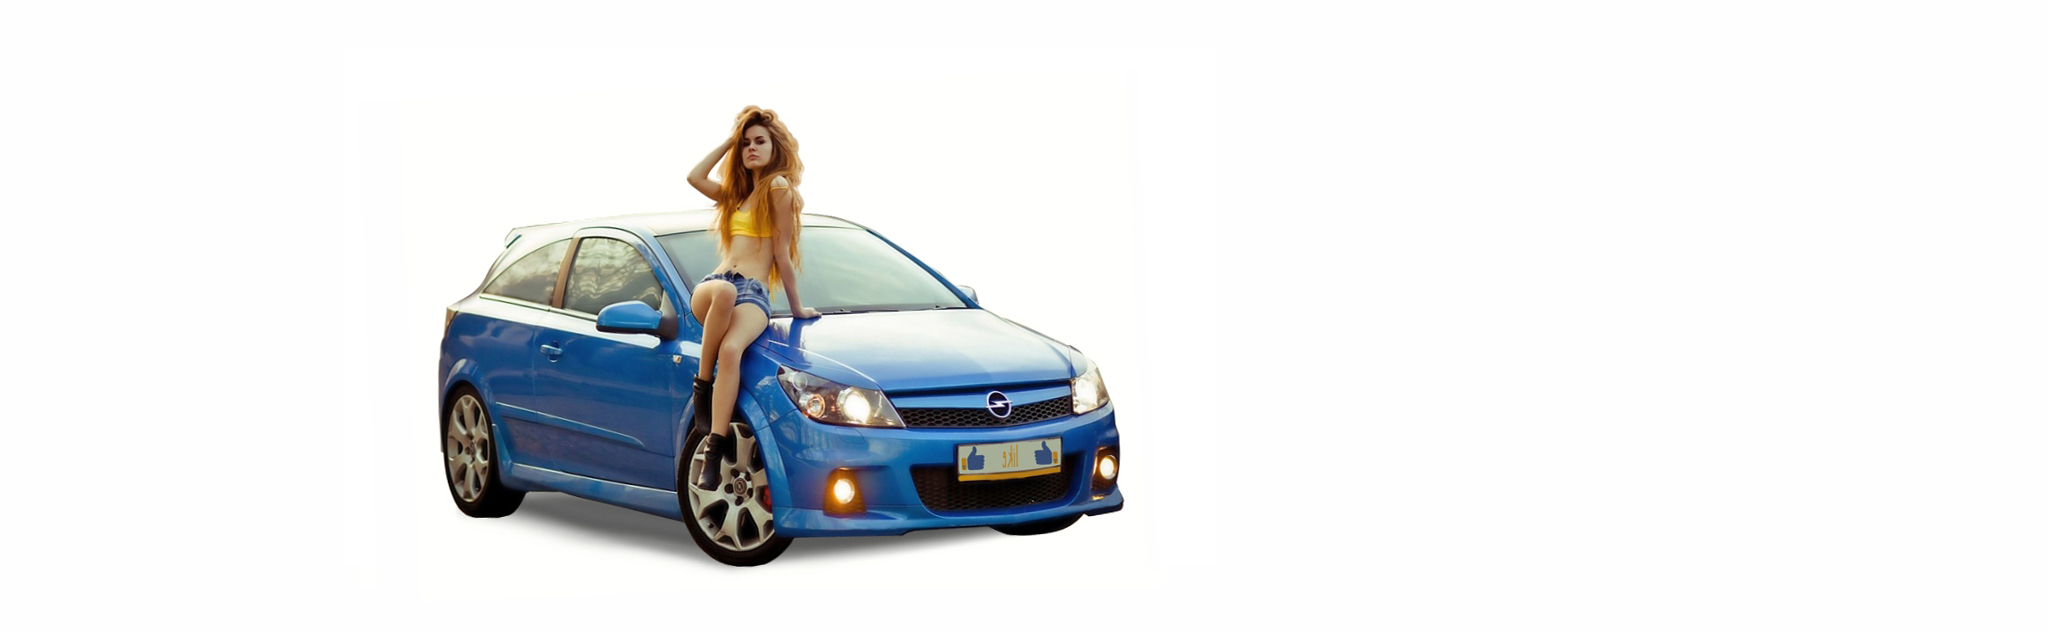
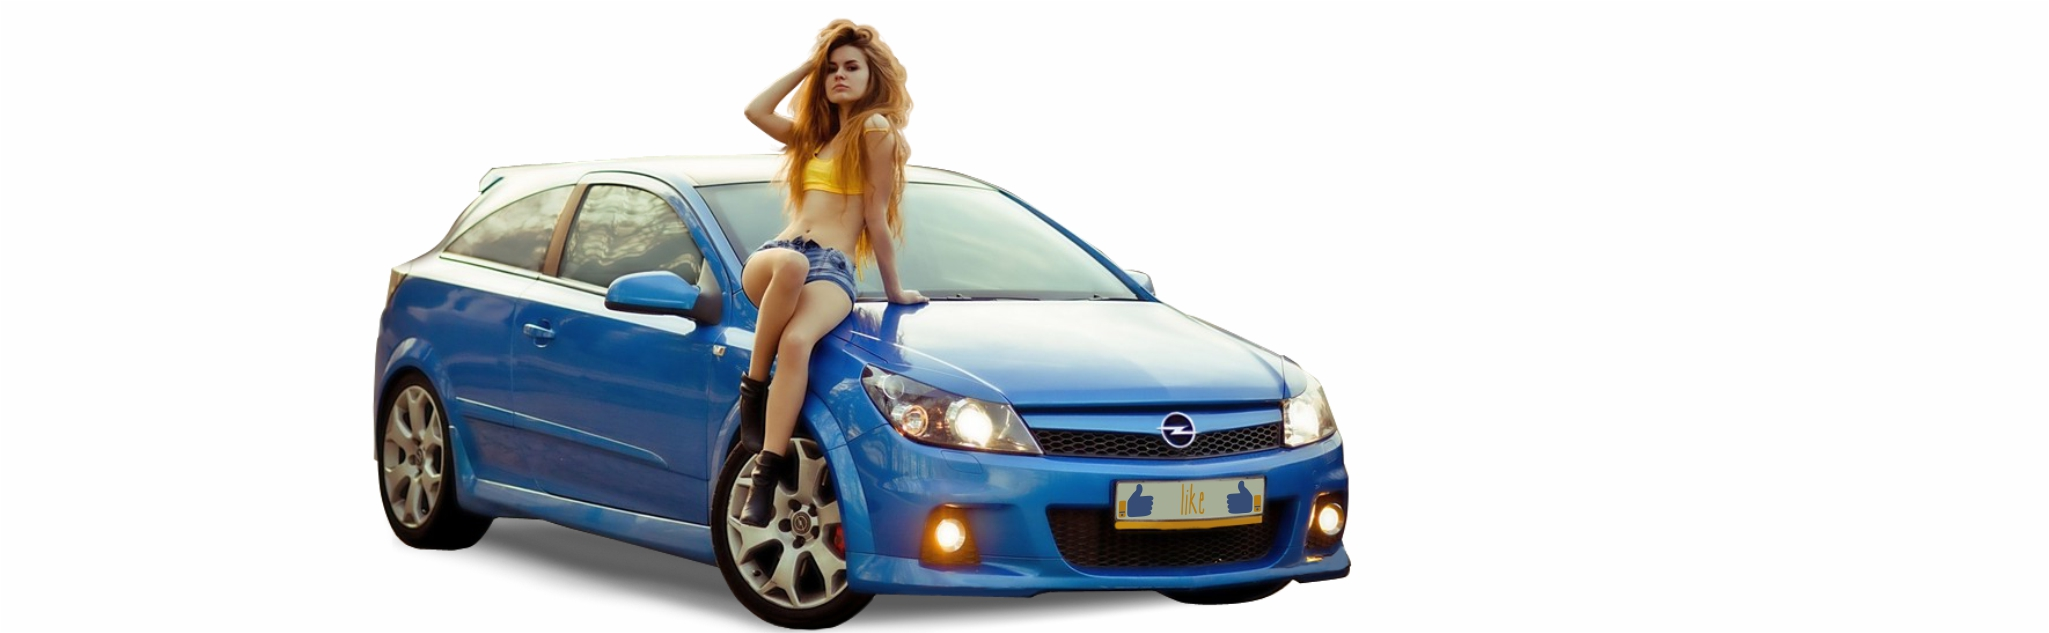
2509171355

Changed region(s): [[0.1562, 0.03, 0.6559, 1.0]]

diff --git a/index.html b/index.html
@@ -240,8 +240,8 @@
           </div>
         </section>
         <section class="well1">
-          <div class="container Info_Box row">
-         
+          <div class="container Info_Box ">
+<!--              <div class="row">-->
               <div class="grid">
                 <h2>About</h2><img data-wow-delay="1s" class="box wow fadeInLeft" src="images/car.png" alt="">
                 <p>Lorem ipsum dolor sit amet conse ctetur adipisicing elit, sed do eiusmod tempor incididunt ut labore et dolore magna aliqua. Ut enim ad minim veniam, quis nostrud exercitation ullamco laboris nisi ut aliquip ex ea commodo consequat. Duis aute irure dolor in reprehenderit in voluptate velit esse cillum dolore eu fugiat nulla pariatu. Lorem ipsum dolor sit amet conse ctetur adipisicing elit, sed do eiusmod tempor incididunt. Lorem ipsum dolor sit amet conse ctetur adipisicing elit, sed do eiusmod tempor incididunt ut labore et dolore magna.</p><a href="#" class="btn">Read more</a>
@@ -249,8 +249,8 @@
 
               <div class="grid">
                 <div class="info-box">
-                <div class="row">
-                <div class="grid_3">
+<!--                <div class="row">-->
+<!--                <div class="grid_2">-->
                <h2>отзывы</h2>
                   <hr>
                   <h3>Ask professionals:</h3>
@@ -271,37 +271,16 @@
                   <dl>
                     <dt>800-2345-6789</dt>
                   </dl>
+<!--               	</div>-->
                	</div>
-                <div class="grid_2">
+<!--                <div class="grid_2">-->
                 <div id="vk_groups"></div>
 <script type="text/javascript">
-VK.Widgets.Group("vk_groups", {mode: 0, width: "220px", height: "400"}, 1);
-</script></div>
-</div>
-<!--
-                  <h2 class="fa-comment">инструкторы</h2>
-                  <hr>
-                  <h3>Ask professionals:</h3>
-                  <dl>
-                    <dt>Monday - Friday:</dt>
-                    <dd>8am-7pm</dd>
-                  </dl>
-                  <dl>
-                    <dt>Saturday:</dt>
-                    <dd>8am-5pm</dd>
-                  </dl>
-                  <dl>
-                    <dt>Sunday:</dt>
-                    <dd>1pm-5pm</dd>
-                  </dl>
-                  <hr>
-                  <h3>24/7 Online Support:</h3>
-                  <dl>
-                    <dt>800-2345-6789</dt>
-                  </dl>
--->
-                </div>
-                <div class="owl-carousel">
+VK.Widgets.Group("vk_groups", {mode: 0, width: "auto", height: ""},1);
+</script>
+<!--</div>-->
+<!--</div>-->
+ 	<div class="owl-carousel">
                   <div class="item">
                     <blockquote class="box">
                       <div class="box_aside"><img src="images/page-1_img02.jpg" alt=""></div>
@@ -347,9 +326,12 @@ VK.Widgets.Group("vk_groups", {mode: 0, width: "220px", height: "400"}, 1);
                     </blockquote>
                   </div>
                 </div>
-              </div>
-            </div>
-      
+</div>
+<!--                </div>-->
+     
+
+      </div>
+      	
         </section>
       </main>
       <!--

diff --git a/css/style.css b/css/style.css
@@ -6,7 +6,8 @@
 					  Main Styles
 =========================================================*/
 body {
-  background: #f5f5f5;
+background-image: url(../images/SAJT_LAJK_kopia.jpg);
+/*  background: #f5f5f5;*/
   color: #56585a;
   font: 400 14px/28px "Roboto", sans-serif;
   -webkit-text-size-adjust: none;
@@ -832,10 +833,13 @@ table tr:nth-child(even) {
 .info-box dl + hr {
   margin-top: 25px;
 }
-@media (max-width:1080px ){
+@media (max-width:780px ){
 	.grid{
 		width: 100%;
 	}
+}
+#vk_groups{
+	width: 100%;
 }
 /*==================     Info     ======================*/
 .info dt {
@@ -1236,6 +1240,7 @@ table tr:nth-child(even) {
 header {
   padding-top: 24px;
   background: #fff;
+	
 }
 header .brand {
   float: left;
@@ -1294,7 +1299,7 @@ header a[href^="callto:"] + p {
 =========================================================*/
 main {
   display: block;
-  background: #fff;
+/*  background: #fff;*/
 }
 
 main p + a[href^="mailto:"] {
@@ -1312,6 +1317,7 @@ a[href^="callto:"]:hover {
 /*  color: #62bfe6;*/
 }
 
+/*
 .video {
   position: relative;
   width: 100%;
@@ -1324,21 +1330,8 @@ a[href^="callto:"]:hover {
   width: 100%;
   height: 100%;
 }
-.play{
-	position: relative;
-}
-.play:after{
-	content: "gd";
-	position: absolute;
-	width: 50px;
-	height: 50px;
-	top:-10px;
-	left:10px;
-	background-image: url(../images/play.png);
-	background-repeat: no-repeat;
-	background-size: cover;
-	z-index: 1;
-}
+*/
+
 /*==================      Well     ======================*/
 .well_ins1 {
 /*  padding-top: 50px;*/
@@ -1386,9 +1379,7 @@ a[href^="callto:"]:hover {
   padding-top: 44px;
 }
 
-#vk_groups{
-	width: 100%;
-}
+
 
 /*========================================================
 					 FOOTER  Styles
@@ -1438,7 +1429,9 @@ footer .copyright a:hover {
 	top:0;
 	
 }
-
+.brand_name .fa-thumbs-o-up{
+text-shadow: -3px -3px 1px #999;
+}
 
 
 

diff --git a/index-1.html b/index-1.html
@@ -30,8 +30,7 @@
         <div class="container">
           <div class="brand">
             <h1 class="brand_name">
-            <i class="fa1 fa-thumbs-o-up"></i>
-            <a href="#">Like</a>
+           <a href="#"><i class="fa1 fa-thumbs-o-up"></i>Like</a>
             </h1>
             <p class="brand_slogan">premium AUTO_SCHOOL </p>
           </div>
@@ -93,7 +92,7 @@
                                   CONTENT
       ========================================================
       -->
-      <main class="mobile-center">
+      <main  class="mobile-center">
         <section>
           <div class="container well1 well1_1 ins2">
             <div class="row">
@@ -104,7 +103,7 @@
                
               </div>
               <div class="grid_4">
-              <img class="play wow zoomInRight" src="images/car2.png" alt="">
+              <img  class="play wow zoomInRight" src="images/car2.png" alt="">
               </div>
                <div class="grid_3">
               <img class="play" src="images/znaki.png" alt="">
@@ -203,6 +202,7 @@
             </div>
           </div>
         </section>
+<!--
         <section class="well1 ins3 bg-primary">
           <div class="container">
             <h2>Our awards</h2>
@@ -272,6 +272,8 @@
             </ul>
           </div>
         </section>
+-->
+<!--
         <section class="well1">
           <div class="container">
             <div class="row">
@@ -290,6 +292,7 @@
             </div>
           </div>
         </section>
+-->
       </main>
       <!--
       ========================================================

diff --git a/js/superfish.js b/js/superfish.js
@@ -282,7 +282,7 @@
         fakeBg: false,
         fakeBgLimiter: '.page',
         pathLevels: 1,
-        delay: 800,
+        delay: 1800,
         animation: {height: 'show'},
         animationOut: {height: 'hide'},
         speed: 'normal',

diff --git a/css/owl-carousel.css b/css/owl-carousel.css
@@ -117,7 +117,7 @@
 
 .owl-carousel .owl-item img {
   display: block;
-  width: 100%;
+/*  width: 100%;*/
   -webkit-transform-style: preserve-3d;
 }
 
